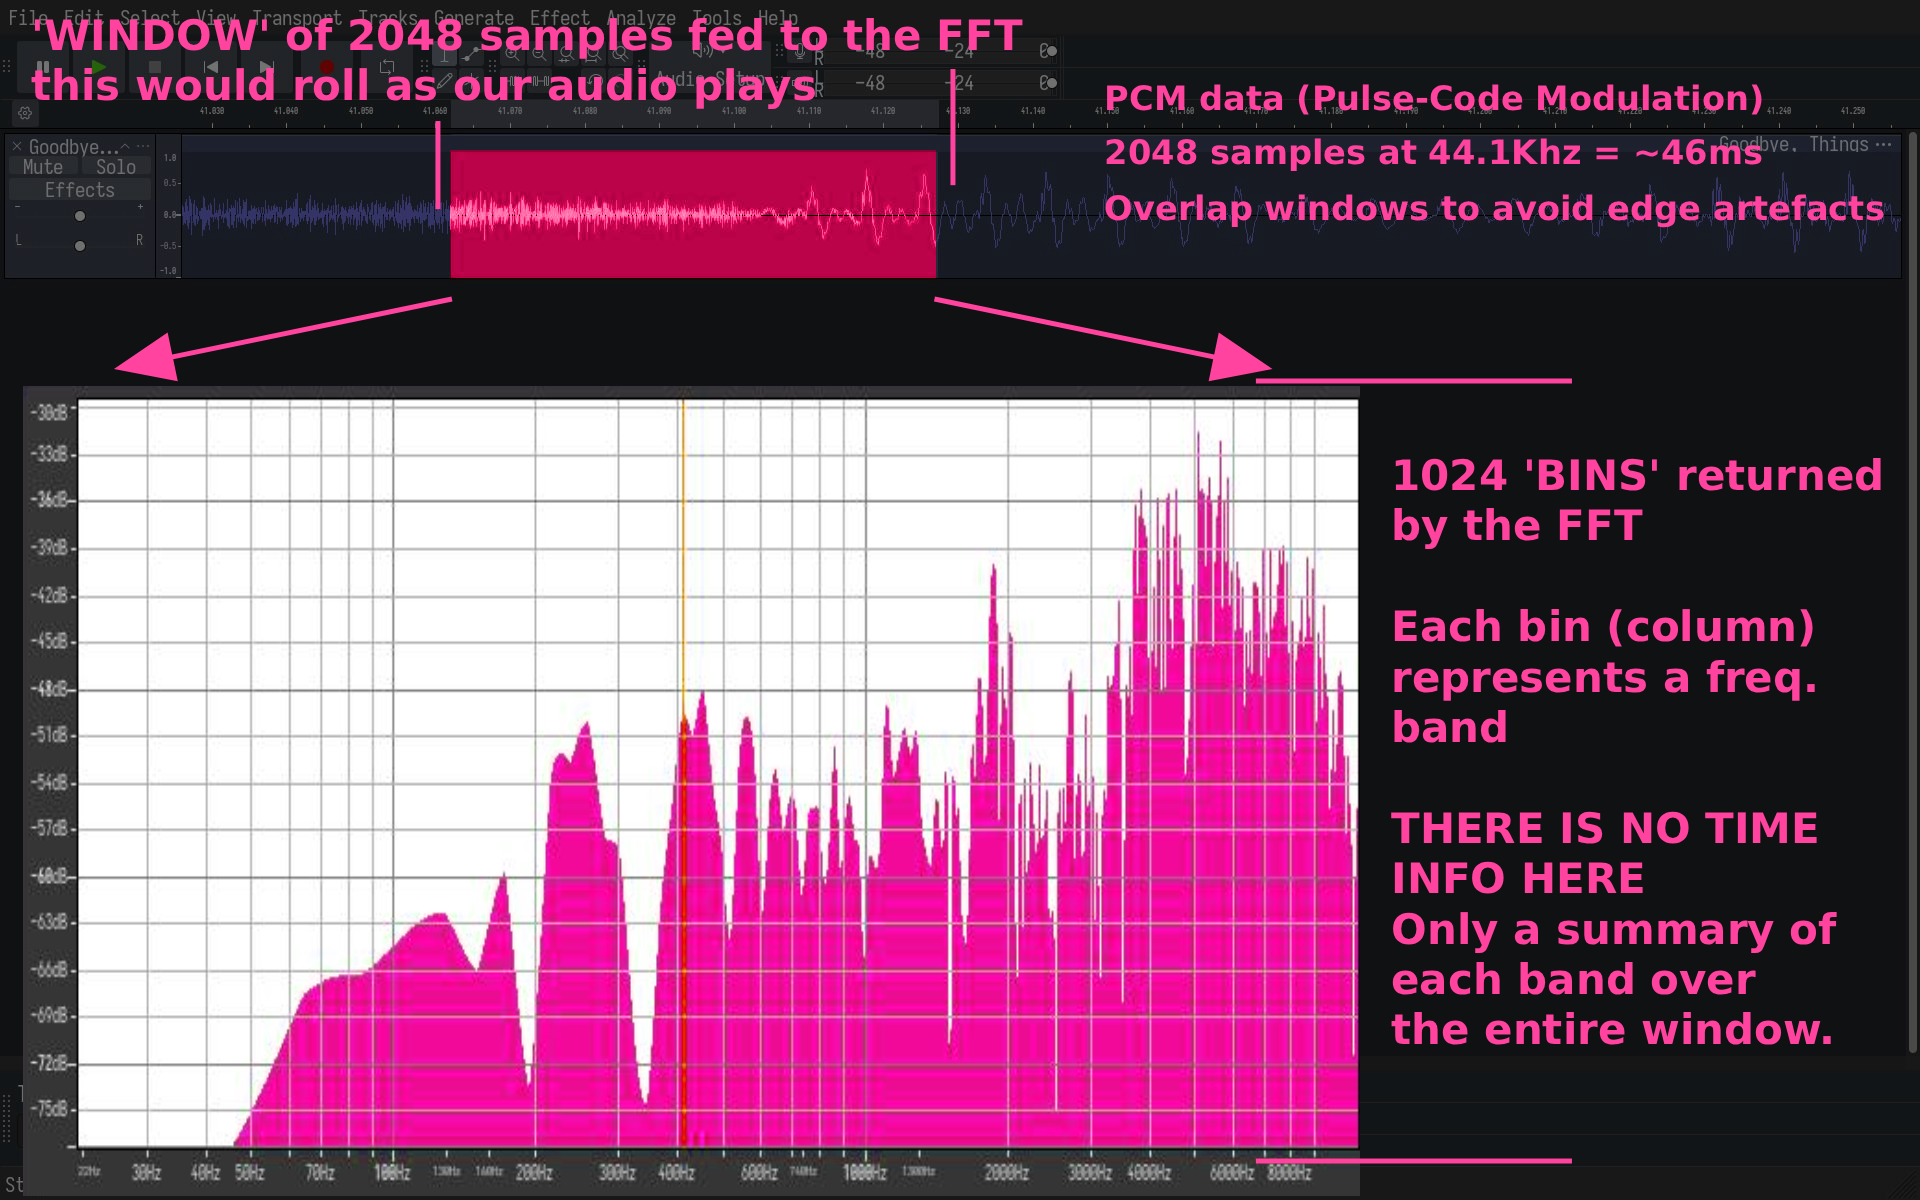
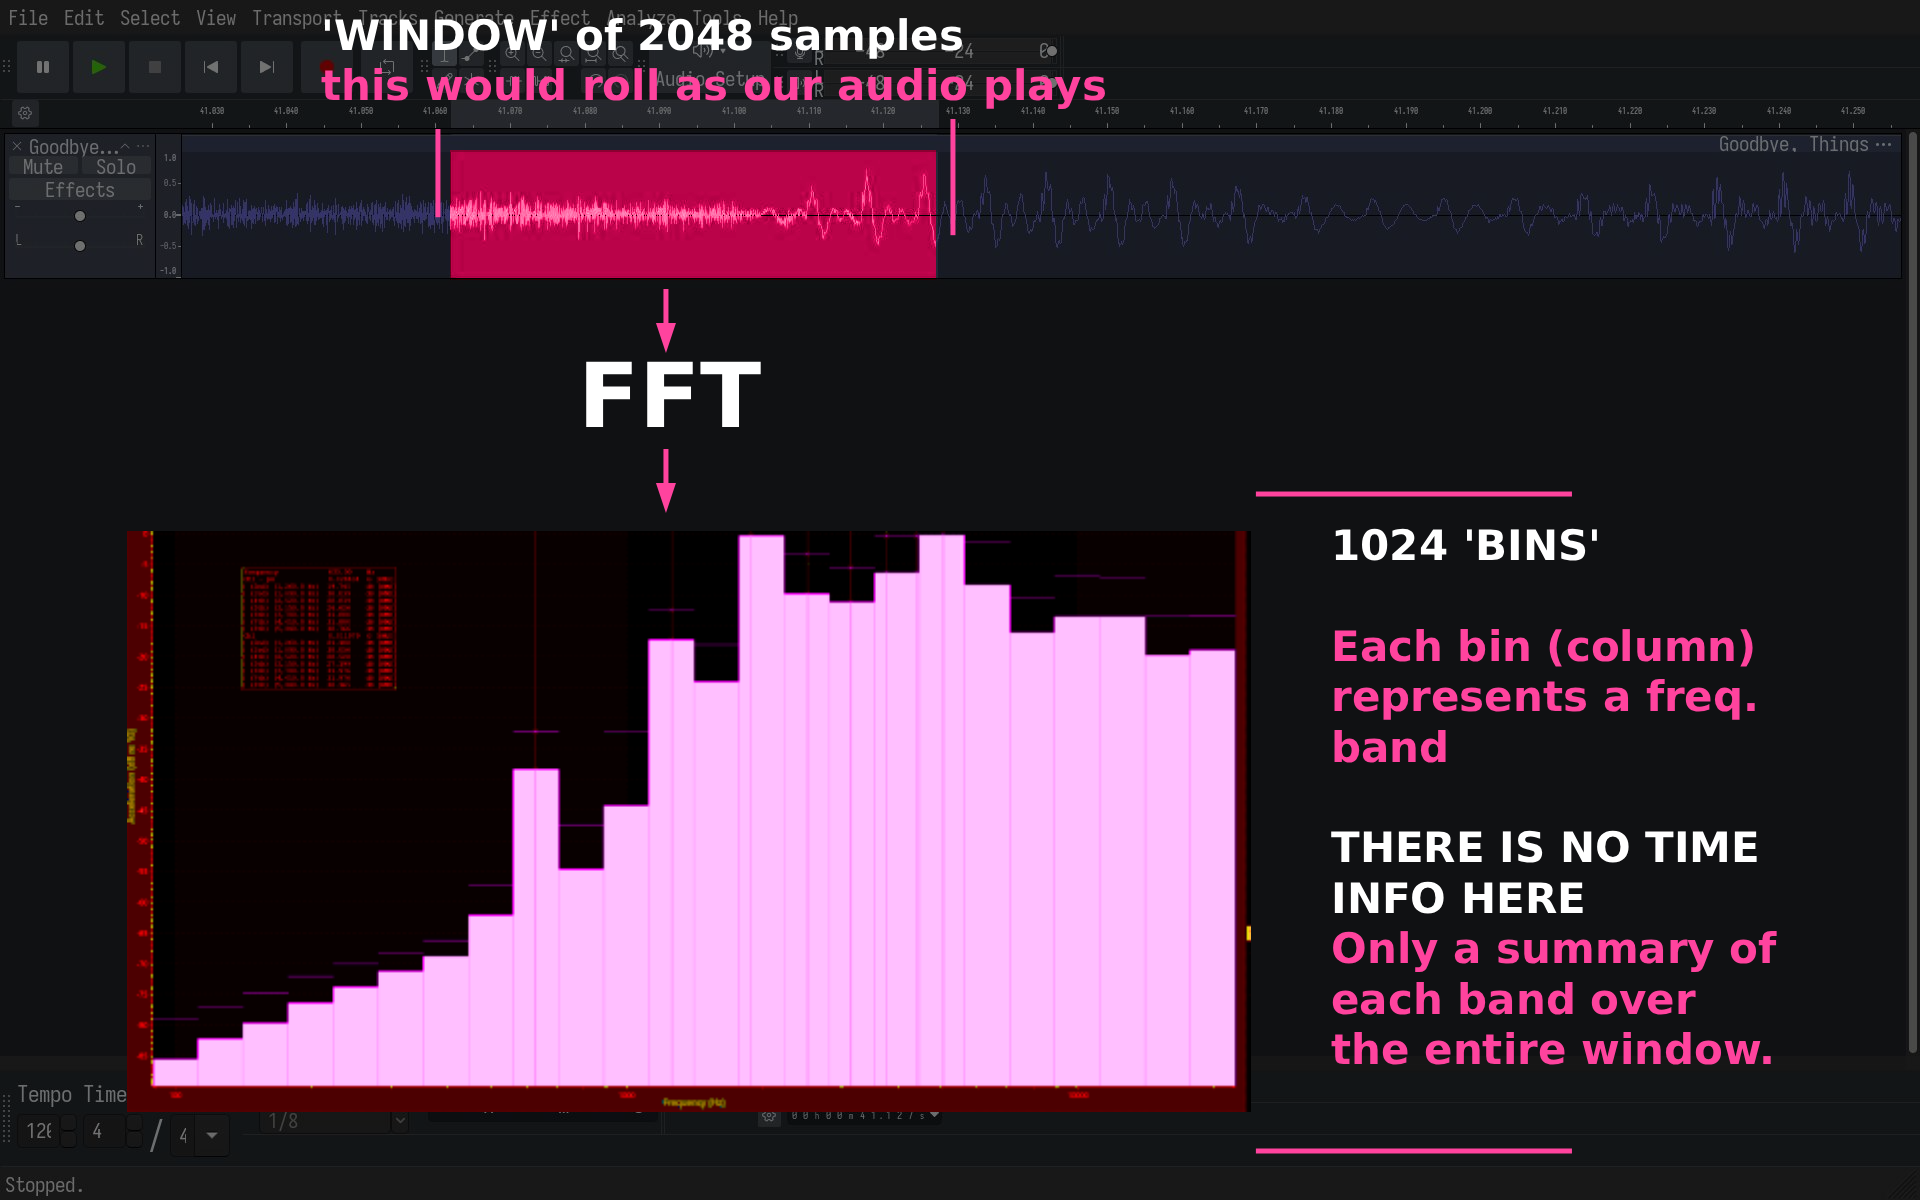
Update wording and images

diff --git a/README.md b/README.md
@@ -2,24 +2,130 @@
 
 ### To visualise audio, we need access to PCM (Pulse-Code modulation) data
 
-This is just the usual stuff we're used to looking at in audio editors: bunch of numbers, each representing a sample.
+> **For real-time visuals, we need access to real-time PCM data**  
+> Eg: In Flutter I'll use a package which will periodically provide me with byte arrays (or similar) for the currently-playing audio
 
-> Something needs to provide PCM data for us in real time, eg in Flutter I'll use a package which provides me with arrays of numbers for audio which is currently playing. 
+PCM is what we're used to seeing in audio editors: a bunch of numbers, each representing a sample.
 
 ![samples are numbers](./img/samples-are-numbers.png)
 
-### A single sample is just a number:
-- Has no meaning in isolation
+### A sample is just a number:
 - Is a representation of air pressure (as read by a microphone or output by a speaker)
 - Contains no info about frequency
+- In isolation, it usually wouldn't even sound like anything
+
+---
+
+# Permissions and access to audio
+
+This is a difficult situation. Modern OSes tend towards isolation of apps and Digital Rights Management. 
+
+In terms of **listening to other apps**:
+- Android: Possible but apps can opt out of it (eg Spotify opts out)
+- iOS: Forget it
+- Desktop: More chance of it being possible
+
+Other options:
+- Play the audio yourself (be the player)
+- Use the mic
+
+---
+
+# Sine Waves
+
+### Fourier's Theorum: "Every function can be completely expressed as a sum of sines and cosines of various amplitudes and frequencies"
+
+Which for our purposes means:
+> Any sound wave, no matter how complex, can be decomposed into a sum of simple sine waves at different frequencies and amplitudes.
+
+### Even simpler version: **It's all just sine waves!**
 
 ![two sound waves](./img/two-sound-waves.png)
 
-This is just 2 sound waves but imagine the many dozens or hundreds that would make up real world sound or music.
+2 sound waves... music and real world sounds would be made up of many dozens, hundreds or more.
 
 ### Combining sine waves
 
 ![sine wave addition](./img/sine-wave-addition.png)
+
+---
+
+# Getting the Music Back Out of the Numbers
+
+> We need a way to take the stream of numbers (samples) and derive something more representative of the original music
+
+### Source separation (hard!)
+True source separation (accurately separating a kick drum from a vocal from a guitar) is difficult, processor-intensive etc. Can be
+done with machine learning but not real-time on normal devices.
+
+### Frequency band decomposition
+
+With help of an FFT, we can take a small chunk of audio and work out which sine waves (frequencies) are present, and how powerful each is.
+
+- An FTT gives us very detailed output that we can then group into more useful bands (eg sub-bass, bass, mids, highs)
+- Each of those bands can then be used to drive a different visual element
+
+---
+
+# FFTs
+
+> The FFT gives us a breakdown of how strongly-represented each frequency band is in a given _window_
+
+![windows and bins](./img/windows-and-bins.png)
+
+### NB: A _window_ is a small chunk of samples (a few milliseconds of audio)
+
+### IN: Sample window
+- While audio plays, we send the latest _window_ into the FTT
+- As play continues we shift the window along in time with the audio
+- Each window should overlap with the previous one to prevent audio artifacts
+
+### OUT: Bins
+- For each window we'll get a group of _bins_ in response
+- Each _bin_ represents a frequency band 
+- Each _bin_ has a value, which is our amplitude or volume for that frequency band
+- The value is an average for the entire window we passed in
+
+![frequency bars](./img/frequency-bars.png)
+
+
+### Choosing the best window size is a trade-off
+
+**Longer window**
+- Can capture lower frequencies, because an entire cycle of a frequency's sine wave must be present in the window (and low frequencies are longer/slower)
+- Lower time resolution: we only know the levels of each frequency for the **entire window**, so if it's too long we
+  might respond too slowly to very short sounds
+
+**Shorter window**
+- Better time resolution (pinpoint more precisely _when_ something happened) but will miss lower frequencies
+
+
+### We only move the window by a fraction of its size
+We run FFTs continuously on overlapping windows of samples as the audio plays. A typical window might be:
+- 2048 samples 
+- advancing by 512 samples each time
+- this overlap is important for temporal smoothness, and the technique is called a Short-Time Fourier Transform or STFT
+
+> At 44,100 Hz sample rate, 512 samples is about 12 milliseconds — so you're getting a fresh frequency snapshot roughly 86 times per second
+
+**One gotcha — the window function**
+
+Raw FFTs on a rectangular chunk of samples produce artefacts at the edges (because the maths assumes the signal repeats, and the discontinuity at the boundary creates phantom frequencies). In practice you multiply your sample window by a smoothing curve — called a Hann or Hamming window — before running the FFT. Every audio analysis library does this for you, but it's worth knowing it exists because it affects the frequency resolution of your output.
+
+---
+---
+---
+---
+# ! NOTES BELOW ARE INCOMPLETE !
+---
+---
+---
+
+# Onset Detection
+
+---
+
+# FFT Internals
 
 ---
 
@@ -45,15 +151,6 @@ This is just 2 sound waves but imagine the many dozens or hundreds that would ma
 ### Pitch/frequency 
 - How long it takes for the point to repeat
 
----
-
-# Fourier's Theorum
-
-### Every function can be completely expressed as a sum of sines and cosines of various amplitudes and frequencies
-
-Which for our purposes means:
-> Any sound wave, no matter how complex, can be decomposed into a sum of simple sine waves at different frequencies and amplitudes.
-
 ### Complex numbers
 
 > This is fuzzy and not perfectly correct mathematically, but a good enough analogy for our understanding
@@ -63,39 +160,3 @@ Which for our purposes means:
 - The size and speed of a wheel can be represented as a list of coordinate pairs (eg position of the point on the wheel on each 'frame' of the above animation)
 
 ---
-
-# Getting the Music Back Out of the Numbers
-
-> We need to decompose the stream of numbers (samples) to get back to something more like music.
-
-### Source separation 
-True source separation (separating a kick drum from a vocal from a guitar) is difficult, processor-intensive etc. Can be
-done with machine learning but not realtime on normal devices.
-
-### Frequency band decomposition
-An FTT gives us output that we can easily split into bands (sub-bass, bass, mids, highs). Each band can be a "voice" to drive a different visual element.
-
----
-
-# FFTs
-
-### Samples in / bins out
-- While audio plays, we can repeatedly pass samples to a FTT in a chunk ('window')
-- We will get a group of 'bin's in response
-- Each bin represents a frequency band, and has a value to indicate how much of that frequency appeared in the window
-  (amplitude for the band)
-
-### Sample window and timing
-
-### Time-frequency uncertainty principle
-
-Choosing the best window size is a trade-off:
-- A longer window gives you better frequency resolution (you can distinguish two very close pitches) but worse time resolution, because you're smearing across a longer slice of time
-- A shorter window gives you better time resolution (you can pinpoint _when_ something happened) but worse frequency resolution, because you haven't seen enough cycles to accurately measure slow wheels
-
-
-![windows and bins](./img/windows-and-bins.png)
-
----
-
-# Onset detection
